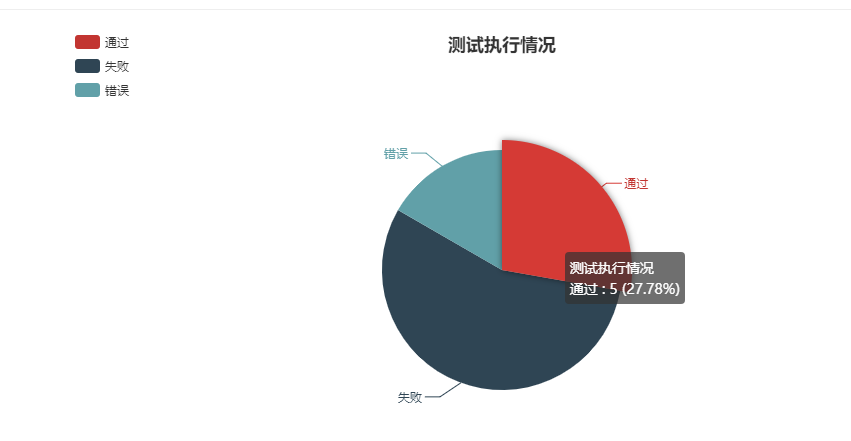
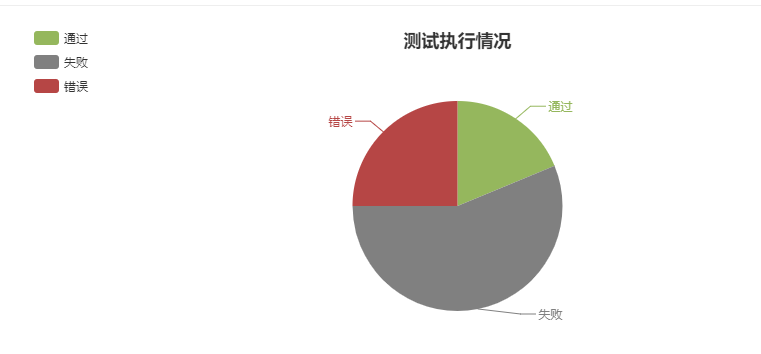
修改饼图颜色

diff --git a/README.md b/README.md
@@ -6,6 +6,8 @@
 
 ![测试执行情况统计图](./img/echarts.png)
 
+**(2017.12.22) 修改统计饼图颜色**
+
 **（2017.12.05）修改为使用cdn的方式，不用建文件夹导入js。**
 
 ~~需要echarts的js文件 `echarts.common.min.js` ，在报告文件夹下创建文件夹 `js` ，将该文件放入，生成报告就能看到该报告中的图表~~
